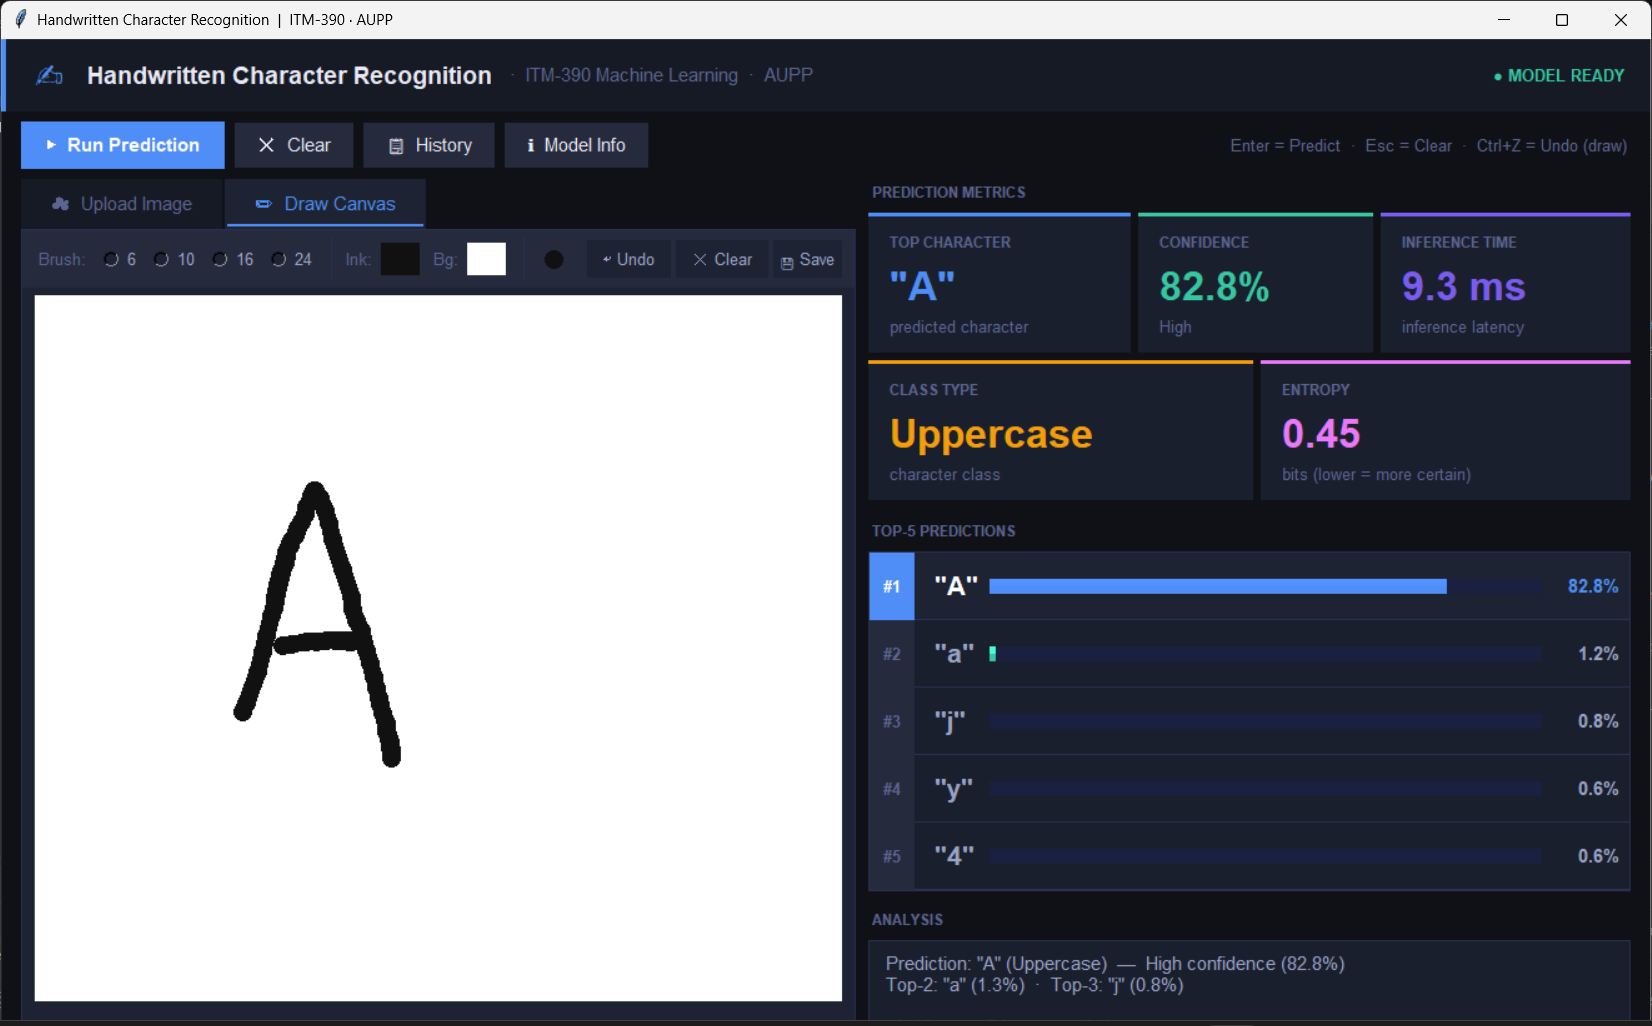
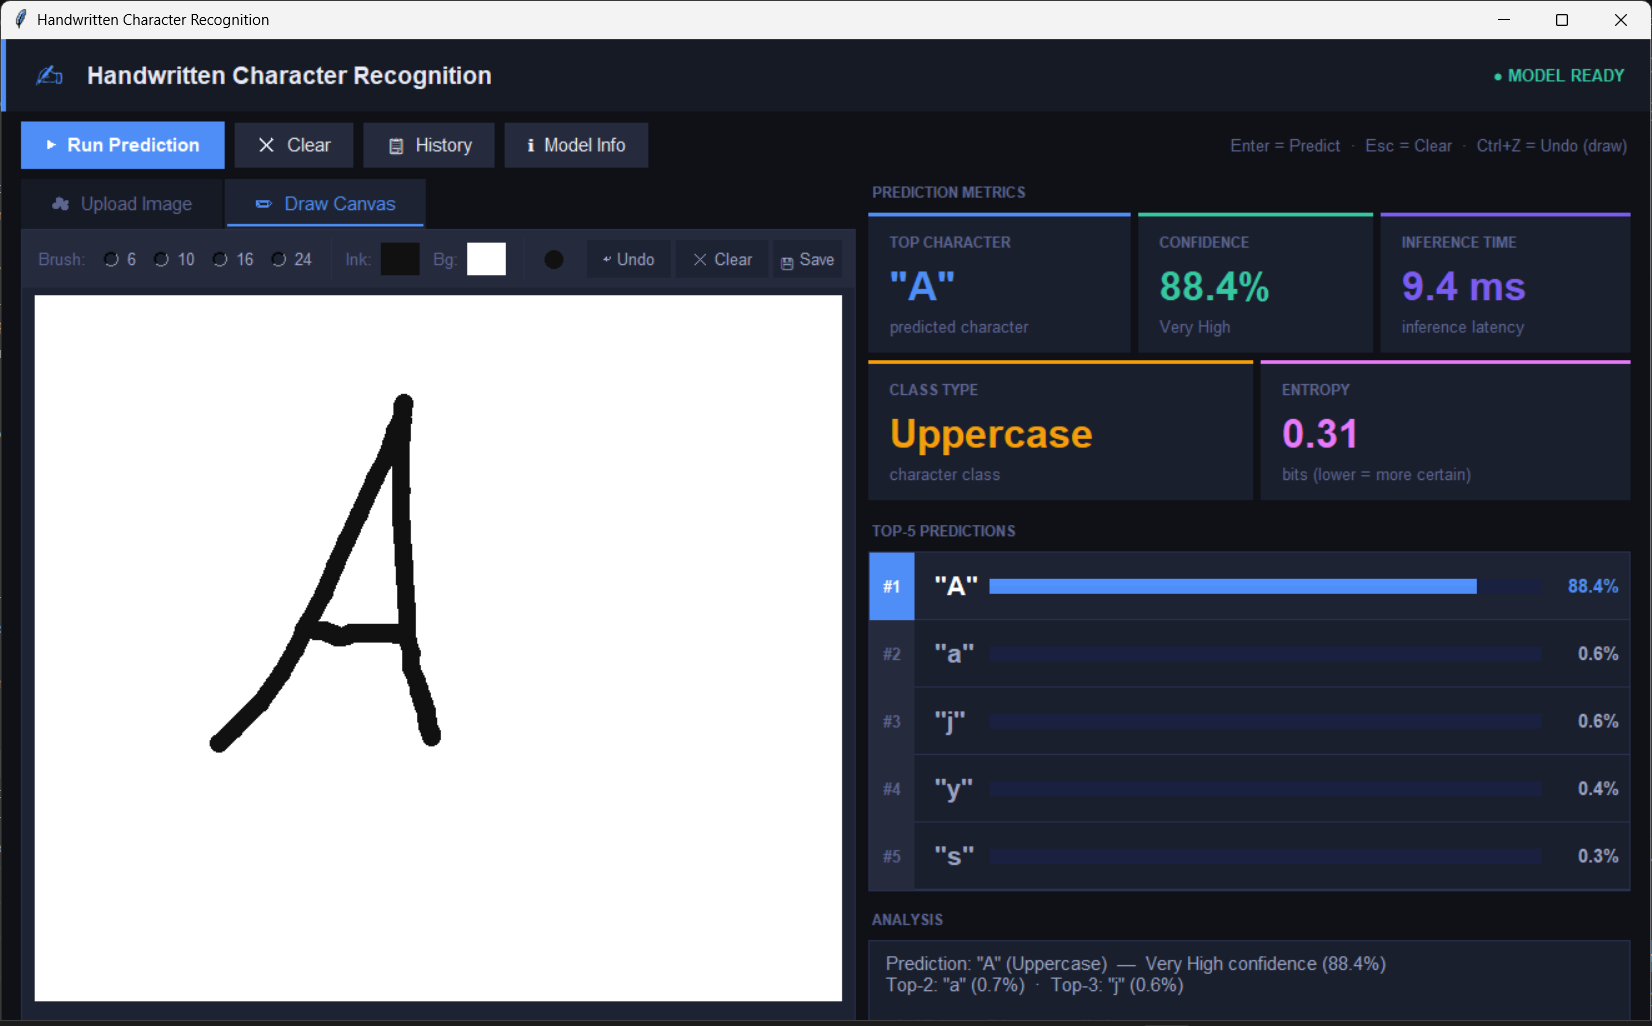
Remove course/university branding from the app
Drops the "ITM-390 · AUPP" course label from the window title and
header. Also regenerates the README demo screenshot to reflect the
updated UI.

diff --git a/handwriting_recognition_ui.py b/handwriting_recognition_ui.py
@@ -577,7 +577,7 @@ class HandwritingRecognitionApp(tk.Tk):
 
     def __init__(self):
         super().__init__()
-        self.title("Handwritten Character Recognition  |  ITM-390 · AUPP")
+        self.title("Handwritten Character Recognition")
         self.configure(bg=C["bg"])
         self.geometry("1320x860")
         self.minsize(1050, 720)
@@ -632,9 +632,6 @@ class HandwritingRecognitionApp(tk.Tk):
         tk.Label(lf, text="Handwritten Character Recognition",
                  bg=C["bg2"], fg=C["text"],
                  font=("Helvetica", 14, "bold")).pack(side="left")
-        tk.Label(lf, text="  ·  ITM-390 Machine Learning  ·  AUPP",
-                 bg=C["bg2"], fg=C["text3"],
-                 font=("Helvetica", 11)).pack(side="left")
         rf = tk.Frame(hdr, bg=C["bg2"])
         rf.pack(side="right", padx=18)
         self._badge = tk.Label(rf, text="● LOADING…", bg=C["bg2"],

diff --git a/README.md b/README.md
@@ -58,7 +58,7 @@ Accuracy peaks around epoch 11 and drifts slightly afterward — expected behavi
 
 **Desktop app** (`handwriting_recognition_ui.py`) — a standalone Tkinter application with a drawing canvas, live prediction, confidence bar chart, prediction history, and model info panel.
 
-![App screenshot: drawing the letter A, predicted with 82.8% confidence](assets/demo_screenshot.png)
+![App screenshot: drawing the letter A, predicted with 88.4% confidence](assets/demo_screenshot.png)
 
 **Notebook demo** (`draw_and_predict.ipynb`) — the same prediction pipeline inside Jupyter, for quick experimentation:
 
